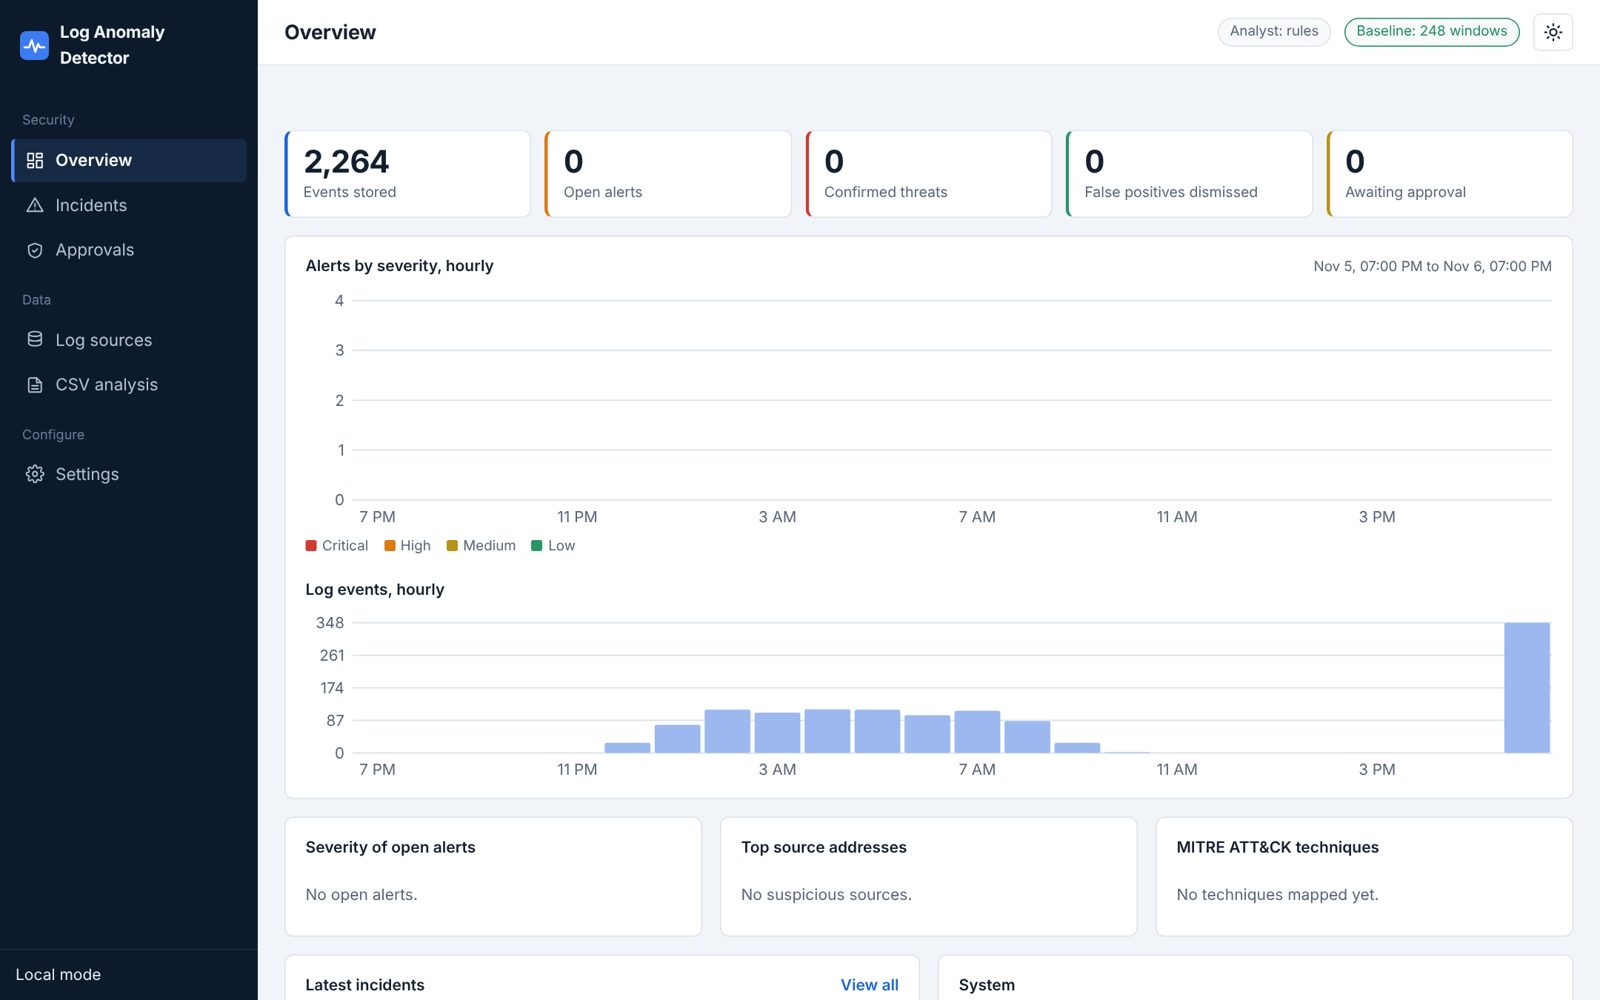
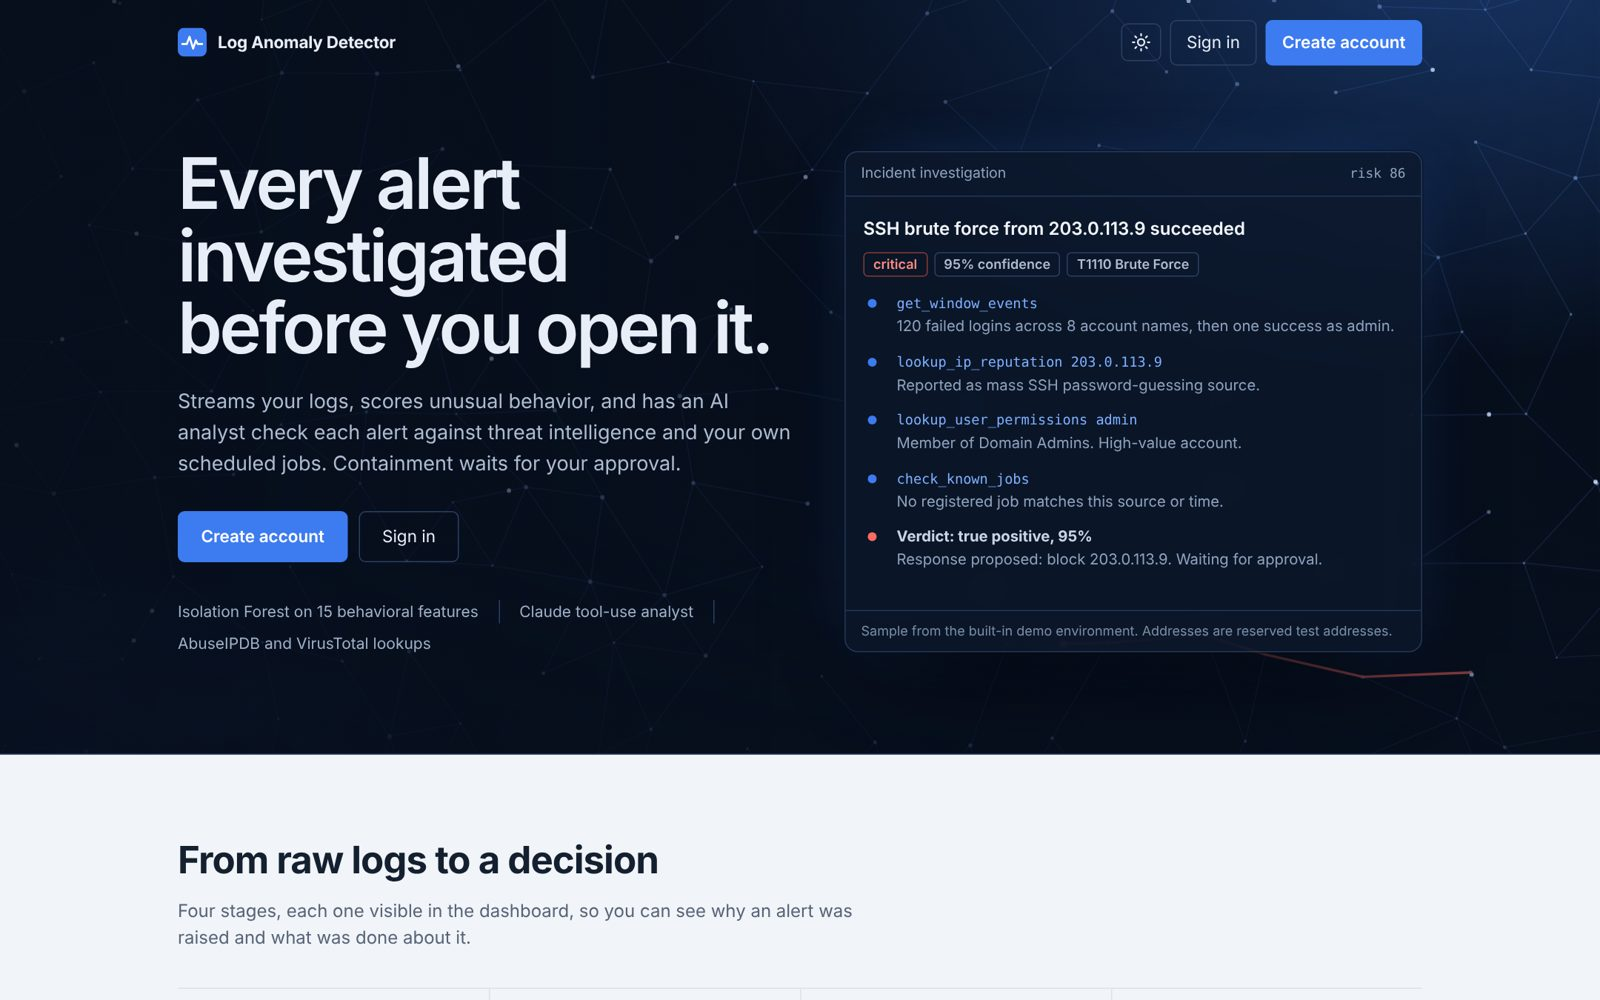
Portfolio page: real landing screenshot
Claude-Session: https://claude.ai/code/session_014bm1EEMEHD9QKnRFzk4i3W

diff --git a/docs/portfolio/index.html b/docs/portfolio/index.html
@@ -19,7 +19,7 @@ small{color:var(--mut)}
 <div class="tags"><span>Python</span><span>FastAPI</span><span>scikit-learn</span><span>Postgres (Neon)</span><span>Claude API</span><span>Vercel</span><span>Electron</span></div>
 <div class="btns"><a class="p" href="https://ai-log-anomaly-detector.vercel.app" target="_blank" rel="noopener">Live demo</a><a href="https://github.com/dipapus-gif/ai-driven-log-anomaly-detector" target="_blank" rel="noopener">Source on GitHub</a></div>
 
-<figure><img src="img/landing.jpg" alt="Landing page with an animated network backdrop" loading="lazy"><figcaption>Cover page with a live network backdrop showing a threat crossing the network and being contained.</figcaption></figure>
+<figure><img src="img/landing.jpg" alt="Landing page with an animated network backdrop" loading="lazy"><figcaption>Cover page with an animated network backdrop and a sample AI investigation.</figcaption></figure>
 
 <h2>What it does</h2>
 <div class="grid">
